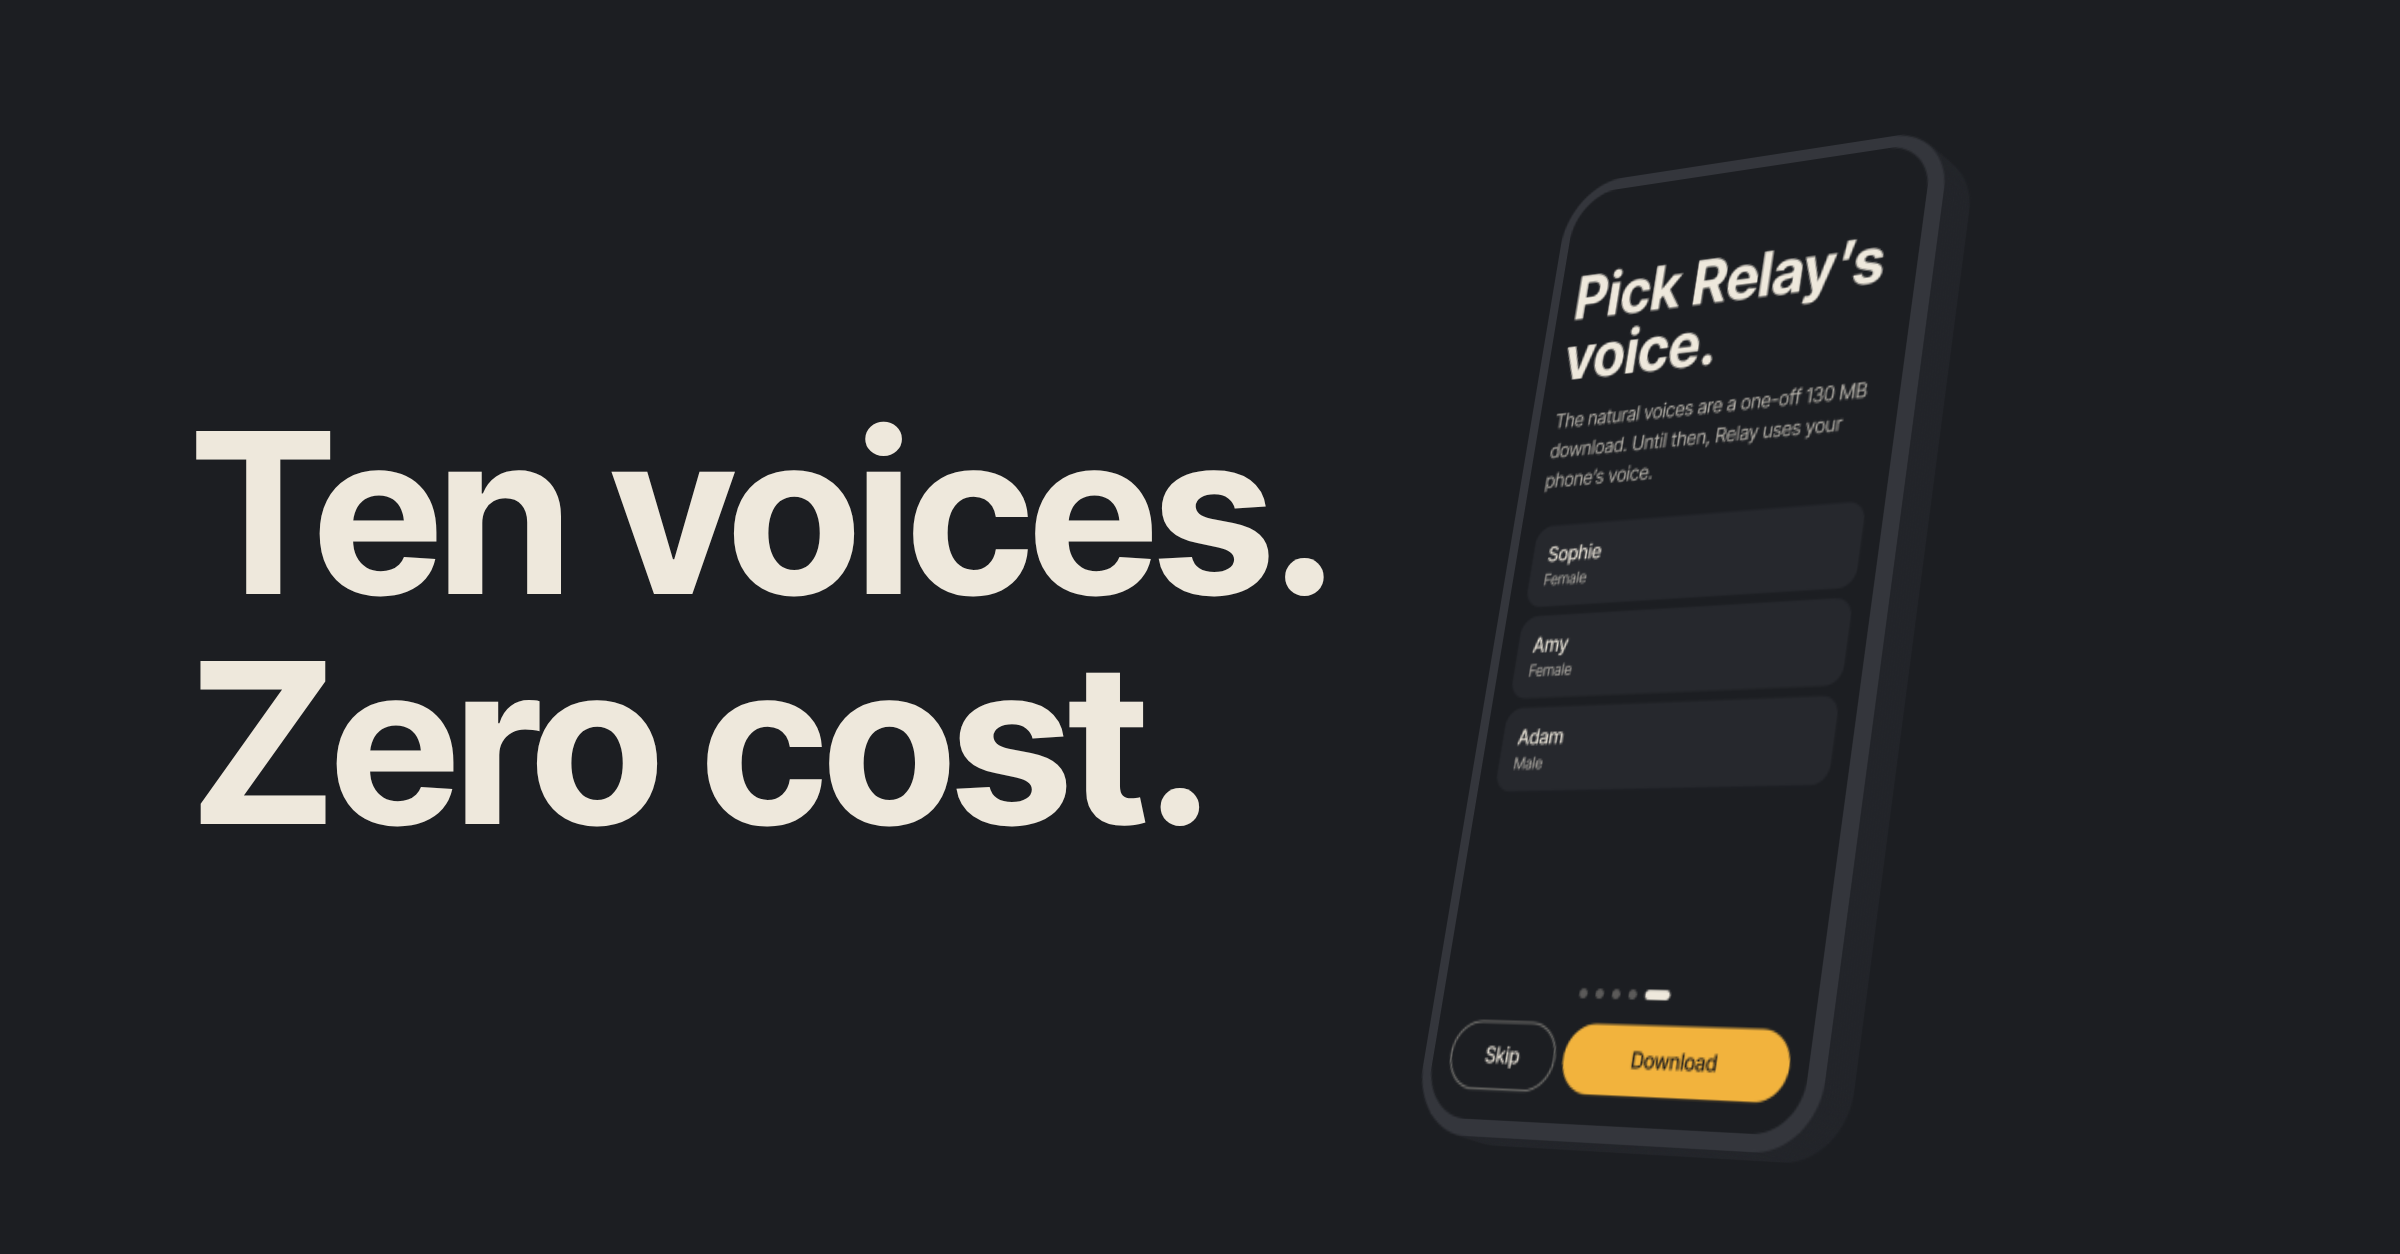
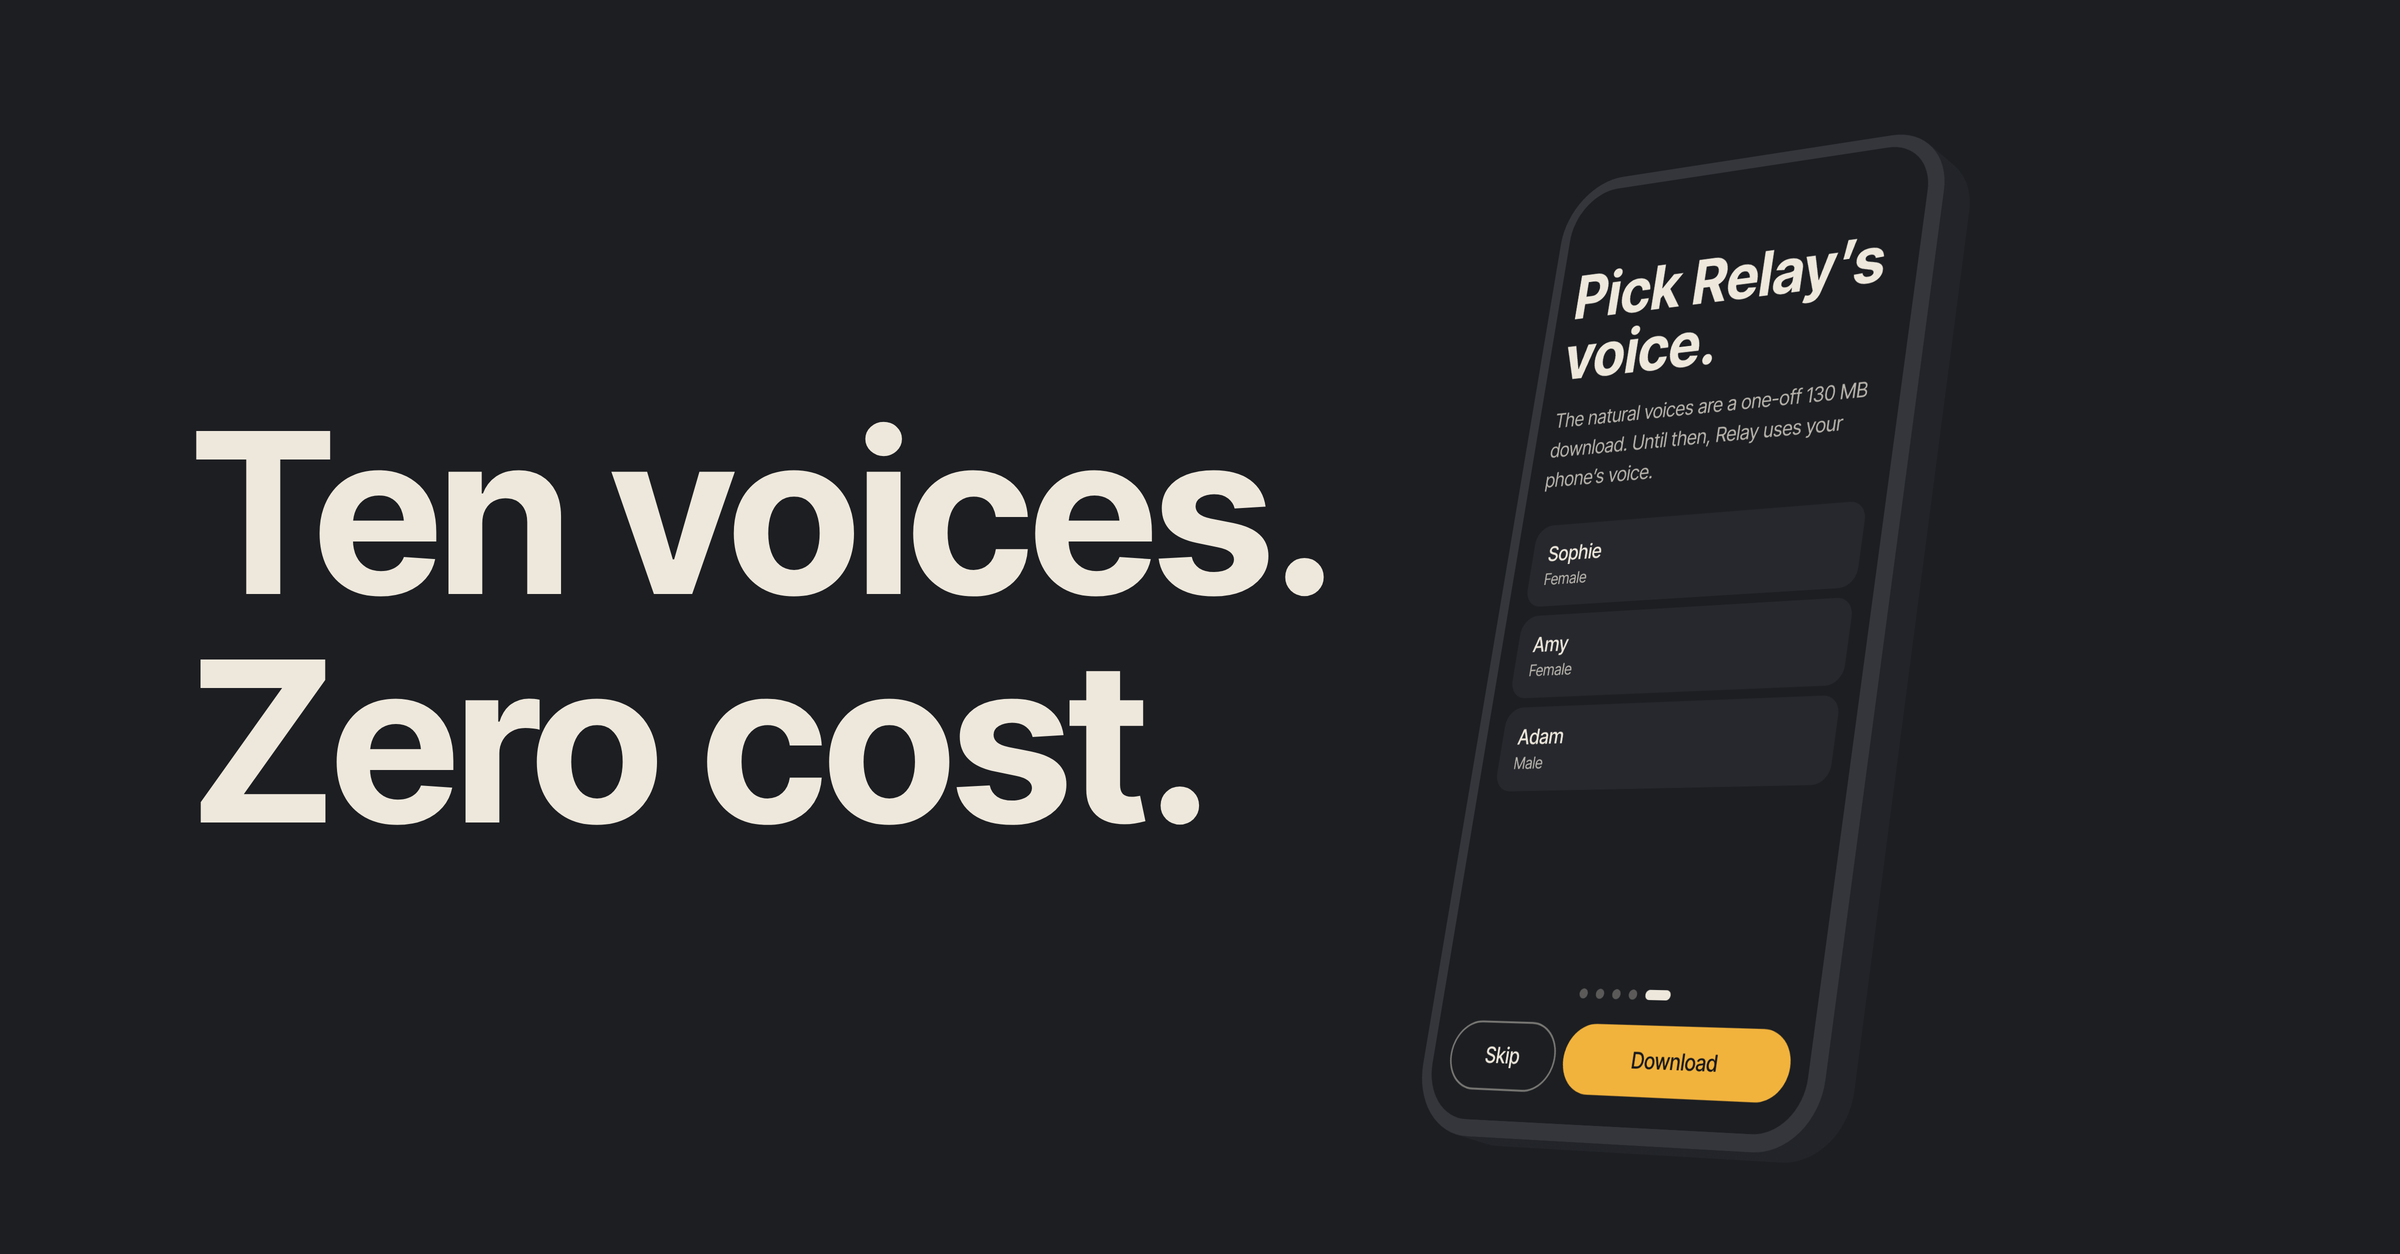
LinkedIn image: render at 4x layout size so the phone screen is sharp
Claude-Session: https://claude.ai/code/session_01P1qx1RXAFqvY8P6rudiL8f

diff --git a/marketing/linkedin/post4.html b/marketing/linkedin/post4.html
@@ -1,10 +1,10 @@
 <!doctype html><meta charset="utf-8"><style>
 @font-face{font-family:IT;font-weight:700;src:url(inter-tight-700.woff2)}
 html,body{margin:0;background:#1C1E22}
-.fg{position:relative;width:1200px;height:627px;overflow:hidden;background:#1C1E22;color:#EEE8DC;display:flex;align-items:center}
-.fg h2{margin:0 0 0 96px;font:700 112px/1.02 IT;letter-spacing:-.01em;white-space:pre-line}
-.fg .stage{position:absolute;left:840px;top:50%;perspective:1640px;transform:translate(-50%,-50%)}
-.p3{--pw:240px;--d:28px;position:relative;width:var(--pw);aspect-ratio:390/844;border-radius:calc(var(--pw) * .1467);transform-style:preserve-3d;transform:rotateX(22deg) rotateY(-34deg) rotateZ(10deg)}
+.fg{position:relative;width:4800px;height:2508px;overflow:hidden;background:#1C1E22;color:#EEE8DC;display:flex;align-items:center}
+.fg h2{margin:0 0 0 384px;font:700 448px/1.02 IT;letter-spacing:-.01em;white-space:pre-line}
+.fg .stage{position:absolute;left:3360px;top:50%;perspective:6560px;transform:translate(-50%,-50%)}
+.p3{--pw:960px;--d:112px;position:relative;width:var(--pw);aspect-ratio:390/844;border-radius:calc(var(--pw) * .1467);transform-style:preserve-3d;transform:rotateX(22deg) rotateY(-34deg) rotateZ(10deg)}
 .p3 i{position:absolute;inset:0;border-radius:inherit;background:#222429;transform:translateZ(calc(var(--k) * var(--d) / -12))}
 .p3 i.rim{background:#34363C}
 .p3 .scr{position:absolute;inset:calc(var(--pw) * .0333);border-radius:calc(var(--pw) * .1133);overflow:hidden;transform:translateZ(.5px)}

diff --git a/marketing/linkedin/render4.js b/marketing/linkedin/render4.js
@@ -1,0 +1,4 @@
+const { chromium } = require('playwright');
+(async()=>{const b=await chromium.launch();const p=await b.newPage({viewport:{width:4800,height:2508},deviceScaleFactor:1});
+await p.goto('file://'+__dirname+'/post4.html');await p.evaluate(()=>document.fonts.ready);await p.waitForTimeout(800);
+await (await p.$('#fg')).screenshot({path:__dirname+'/big.png'});await b.close();})();

diff --git a/marketing/linkedin/README.md b/marketing/linkedin/README.md
@@ -1,1 +1,1 @@
-LinkedIn images. relay-linkedin-voices.png (15 Nov 2026): 1200 x 627 at 2x, the Play feature graphic layout. cap.js captures the onboarding voice screen from www/index.html (run from the repo root, saves ob-voice.png next to it); render.js renders post.html. Font: copy inter-tight-700.woff2 from android-release/play-listing/source.
+LinkedIn images. relay-linkedin-voices.png (15 Nov 2026): 1200 x 627 at 2x, the Play feature graphic layout. cap.js captures the onboarding voice screen from www/index.html (run from the repo root, saves ob-voice.png next to it); render4.js renders post4.html, laid out at 4x (4800 x 2508) so the 3D phone screen rasterises sharply, then scaled down to 2400 x 1254 with Lanczos (PIL). Font: copy inter-tight-700.woff2 from android-release/play-listing/source.
